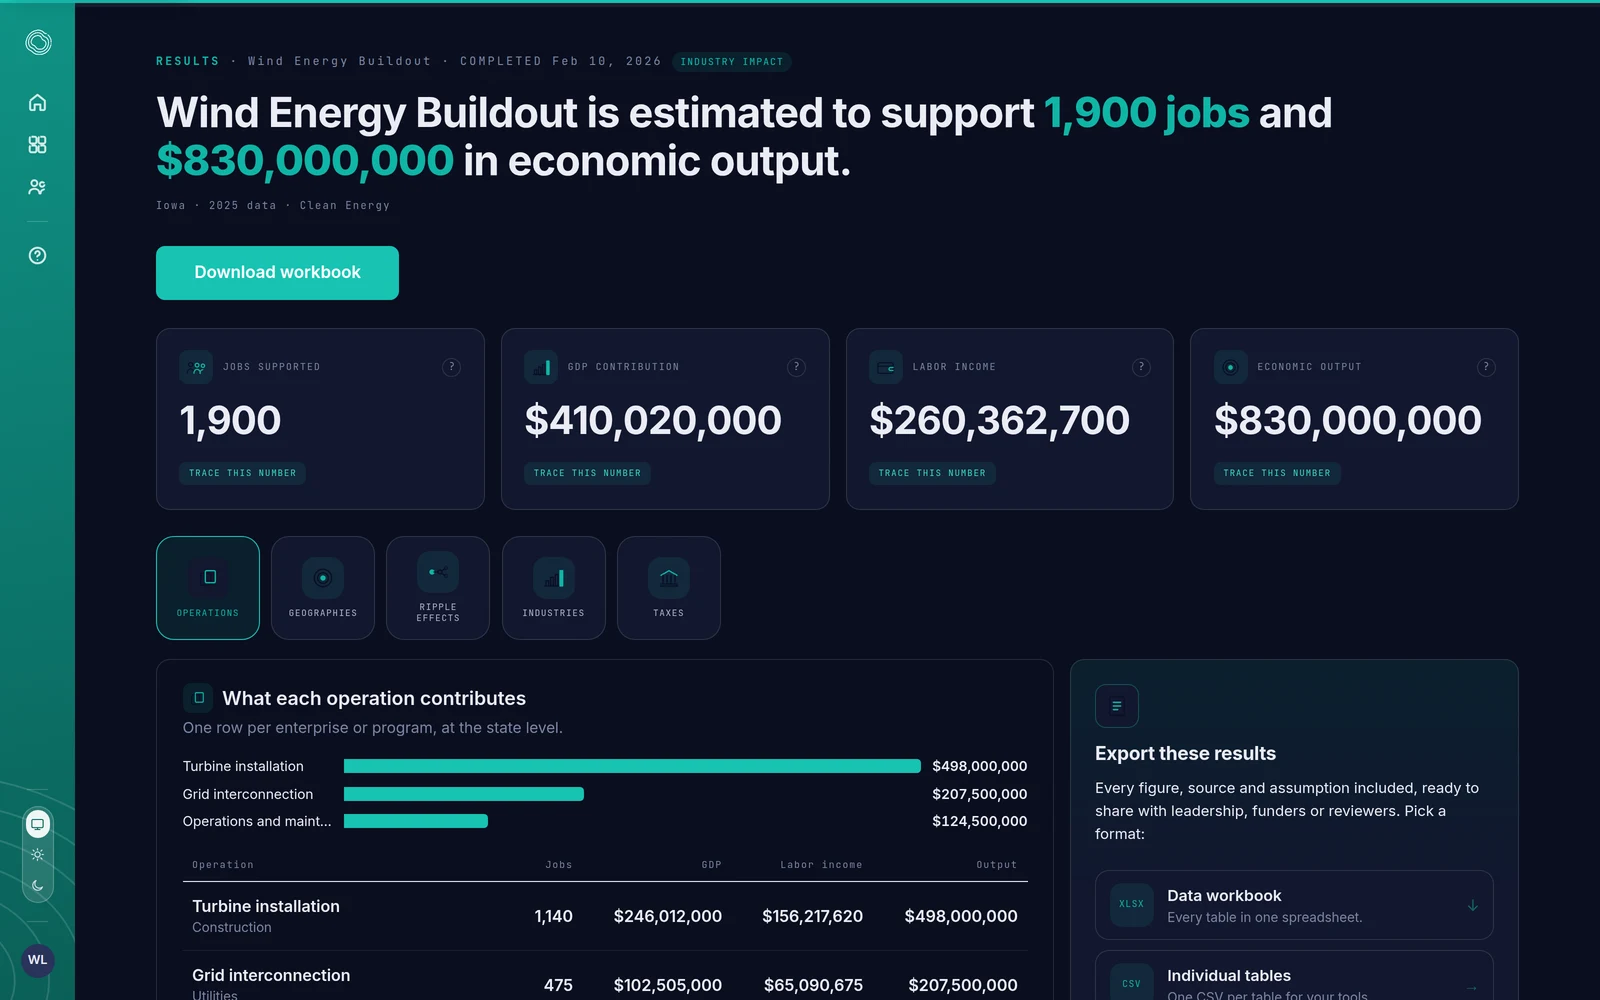
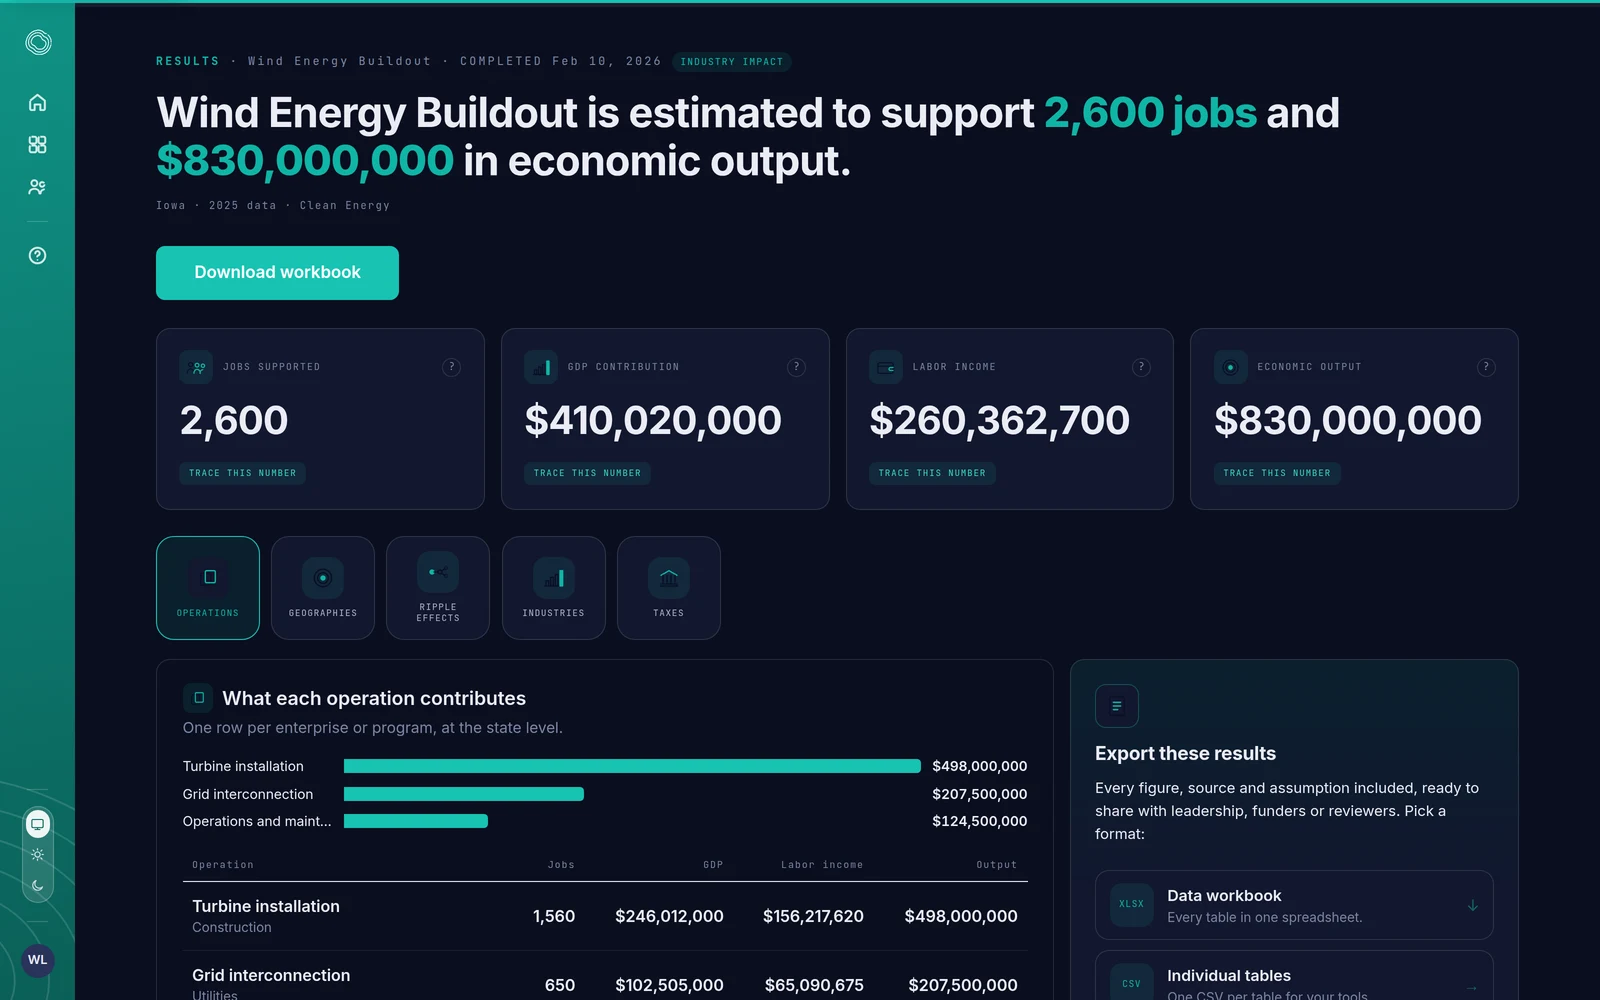
Free trial flow, truly pinned Cedar captures, plausible wind numbers
Three fixes from founder review:

- Free trial account option end to end: checkout gains a $0 Free
  trial card (dashed border, discount field hidden, button reads
  "Start your free trial"); signup understands tier=free and sends
  new accounts straight to /login; hero, final CTA, pricing,
  methodology and /cedar CTAs point at /signup?tier=free. Covered
  by a new smoke test.

- Cedar chat captures redone after the teim-app footer-lift fix so
  the docked panel is genuinely flush with the bottom edge in
  every screenshot (cedar, wind intake, wind partner, both themes).

- Numbers audit: all ten hero captions verified against the mock
  results behind the screenshots and entity tables cross-foot. The
  wind study's labor income per job was implausibly high, so jobs
  supported is now 2,600 across the mock, hero caption and Cedar
  transcript; hero-09 recaptured in both themes.

Claude-Session: https://claude.ai/code/session_01CSz1H1JLzB7E78Jo7jEreX

diff --git a/tests/smoke.spec.ts b/tests/smoke.spec.ts
@@ -182,3 +182,13 @@ test('methodology hosts the AI-research verification block', async ({ page }) =>
   await expect(page.locator('.askai')).toHaveCount(1);
   await expect(page.locator('.askai-tile')).toHaveCount(6);
 });
+
+test('checkout offers the free trial with no payment step', async ({ page }) => {
+  await page.goto('/checkout?tier=free', { waitUntil: 'domcontentloaded' });
+  const selected = page.locator('.co-plan--on');
+  await expect(selected).toHaveCount(1);
+  await expect(selected).toContainText('Free trial');
+  await expect(page.locator('[data-co-total]')).toHaveText('$0');
+  await expect(page.locator('[data-co-submit]')).toHaveText('Start your free trial');
+  await expect(page.locator('input[name="discountCode"]')).toBeHidden();
+});

diff --git a/src/styles/auth.css b/src/styles/auth.css
@@ -418,6 +418,10 @@
 .co-plan:hover {
   border-color: var(--accent);
 }
+/* The free-trial option reads lighter than the paid plans. */
+.co-plan--free {
+  border-style: dashed;
+}
 .co-plan--on {
   border-color: var(--accent);
   background: var(--accent-rgba-08);
